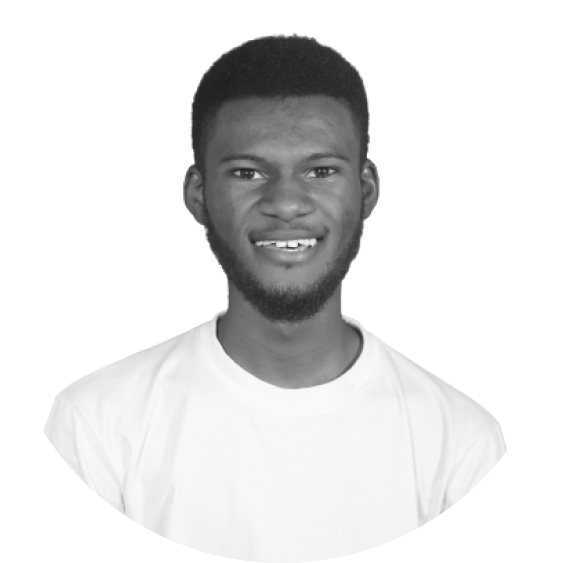
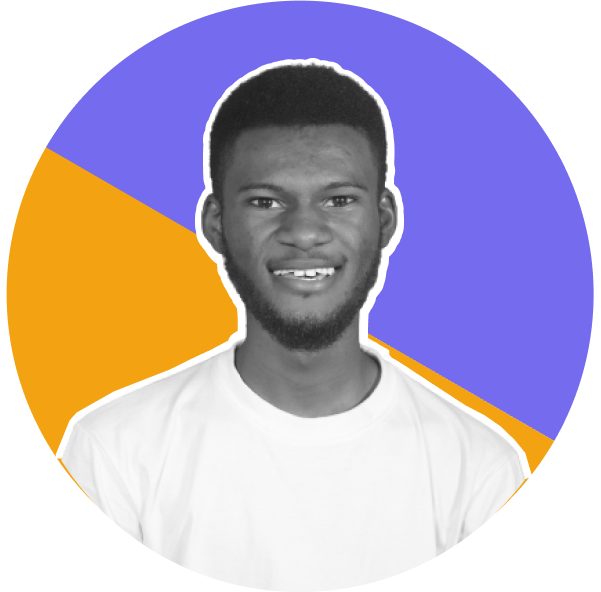
update profile picture

diff --git a/src/components/sections/Hero.js b/src/components/sections/Hero.js
@@ -1,9 +1,11 @@
 import React from 'react';
-import { Grid } from '@mui/material';
-
+import { Button, Grid } from '@mui/material';
 import classNames from 'classnames';
 import { SectionProps } from '../../utils/SectionProps';
 import Image from '../elements/Image';
+import { styled } from '@mui/material/styles';
+// import PlayCircleIcon from '@mui/icons-material/PlayCircle';
+import { Link } from 'react-router-dom';
 
 const propTypes = {
   ...SectionProps.types
@@ -39,32 +41,78 @@ const Hero = ({
     bottomDivider && 'has-bottom-divider'
   );
 
+  const HeroButton = styled(Button)({
+    textTransform: 'capitalize',
+    width: '100%',
+    fontSize: '16px',
+    textAlign: 'center',
+    borderRadius: '5px',
+  })
+
   return (
     <section
       {...props}
       className={outerClasses}
+      style={{backgroundColor: '#FFF9E7'}}
     >
       <div className="container-sm">
         <div className={innerClasses}>
           <Grid container spacing={5}>
             <Grid item xs={12} sm={6} md={6} style={{display: "flex", flexDirection: "column", justifyContent: "center"}} className="btns">
-              <p className="m-0 reveal-from-bottom primary-color" data-reveal-delay="400"><b>OONFTs</b></p>
               <h1 className="mt-0 mb-16 reveal-from-bottom" data-reveal-delay="200">
-              Create, sell or collect digital items.
+                Hi, i’m Ameh Abraham. I build and design software.
               </h1>
               <p className="m-0 mb-32 reveal-from-bottom" data-reveal-delay="400">
-              Unit of data stored on a digital ledger, called a blockchain, that certifies a digital asset to be unique and therefore not interchangeable.
+                I’m a software engineer specializing in building (and occasionally designing) exceptional digital experiences. Currently, I’m focused on building accessible, human-centered products.
               </p>
               <div className="reveal-from-bottom" data-reveal-delay="600">
-                {/* <ConnectButton /> */}
+              <Grid container spacing={3}>
+                  <Grid item xs={12} sm={6} md={4}>
+                    <Link to='/about'>
+                      <HeroButton 
+                        variant="contained"
+                      >
+                        Hire Me
+                      </HeroButton>
+                    </Link>
+                  </Grid>
+                  <Grid item xs={12} sm={6} md={4}>
+                    <HeroButton variant="outlined" 
+                      // endIcon={<PlayCircleIcon/>}
+                    >
+                      Let's talk
+                      
+                    </HeroButton>
+                  </Grid>
+                </Grid> 
               </div>
             </Grid>
             <Grid item xs={12} sm={6} md={6}>
 
-              <div className="hero-figure reveal-from-bottom illustration-element-01" data-reveal-value="20px" data-reveal-delay="800">
+              <div className="hero-figure reveal-from-bottom illustration-element-01" data-reveal-value="20px" data-reveal-delay="800" style={{position: 'relative'}}>
                 <Image
-                  src={require('./../../assets/images/nft.png')}
-                  alt="Hero" 
+                  src={require('./../../assets/images/hero/abraham.png')}
+                  alt="Abraham" 
+                  />
+                  <Image
+                    src={require('./../../assets/images/hero/figma.svg')}
+                    alt='figma'
+                    className='figma'
+                  />
+                  <Image
+                    src={require('./../../assets/images/hero/javascript.svg')}
+                    alt='javascript'
+                    className='javascript'
+                  />
+                  <Image
+                    src={require('./../../assets/images/hero/typescript.svg')}
+                    alt='typescript'
+                    className='typescript'
+                  />
+                  <Image
+                    src={require('./../../assets/images/hero/react.svg')}
+                    alt='react'
+                    className='react'
                   />
             </div>
             </Grid>

diff --git a/src/components/layout/Header.js b/src/components/layout/Header.js
@@ -2,7 +2,7 @@ import React, { useState, useRef, useEffect } from 'react';
 import PropTypes from 'prop-types';
 import classNames from 'classnames';
 import { Link } from 'react-router-dom';
-import Logo from '../../assets/images/logo.png';
+import Logo from '../../assets/images/logo.svg';
 import Button from '../elements/Button';
 
 const propTypes = {
@@ -79,7 +79,7 @@ const Header = ({
     <header
       {...props}
       className={classes}
-      style={{position: "fixed"}}
+      style={{position: "fixed", paddingTop: '1%', backgroundColor: '#FFF9E7'}}
     >
       <div className="container">
         <div className={
@@ -88,7 +88,7 @@ const Header = ({
             bottomDivider && 'has-bottom-divider'
           )}>
           {/* <Logo /> */}
-          <Link to="/"><img src={ Logo } width="60" alt="" className="float-righ"/></Link>
+          <Link to="/"><img src={ Logo } width="195" alt="logo" className="float-righ" style={{marginTop: '2%'}}/></Link>
           {/* <h3>Numeri</h3> */}
           {!hideNav &&
             <>
@@ -116,15 +116,32 @@ const Header = ({
                       navPosition && `header-nav-${navPosition}`
                     )}>
                       <li>
-                      <Link to="/collections" onClick={closeMenu}>My Collections</Link>
-                    </li>
+                        <Link to="/collections" onClick={closeMenu}>About Me</Link>
+                      </li>
+                      <li>
+                        <Link to="/collections" onClick={closeMenu}>Services</Link>
+                      </li>
+                      <li>
+                        <Link to="/collections" onClick={closeMenu}>Projects</Link>
+                      </li>
+                      <li>
+                        <Link to="/collections" onClick={closeMenu}>Contact</Link>
+                      </li>
                   </ul>
                   {!hideSignin &&
                     <ul
                       className="list-reset header-nav-right"
                     >
                       <li>
-                        <Button color={'#8364e2'}>Connect</Button>
+                      <Button 
+                            variant="contained"
+                            sx={{
+                              fontSize: '16px',
+                              textTransform: 'capitalize'
+                            }}
+                          >
+                            Resume
+                          </Button>
                       </li>
                     </ul>}
                 </div>

diff --git a/src/components/layout/Footer.js b/src/components/layout/Footer.js
@@ -1,9 +1,10 @@
 import React from 'react';
 import PropTypes from 'prop-types';
 import classNames from 'classnames';
-import Logo from '../../assets/images/logo.png';
-import FooterNav from './partials/FooterNav';
+import Logo from '../../assets/images/logo.svg';
 import FooterSocial from './partials/FooterSocial';
+import { Box, Grid } from '@mui/material';
+import { Link } from 'react-router-dom';
 
 const propTypes = {
   topOuterDivider: PropTypes.bool,
@@ -39,15 +40,25 @@ const Footer = ({
             'site-footer-inner',
             topDivider && 'has-top-divider'
           )}>
-          <div className="footer-top space-between text-xxs">
-            <img src={ Logo } width="60" alt="" className="float-righ"/>
-            <FooterSocial />
-          </div>
-          <div className="footer-bottom space-between text-xxs invert-order-desktop">
-            <FooterNav />
-            <div className="footer-copyright" style={{color: "#9CA9B3"}}>&copy; 2022 OONFTs. All right reserved</div>
-          </div>
+            <div className="footer-top" style={{marginTop: '100px'}}>
+            <Box>
+              <Grid container spacing={5} >
+                <Grid item xs={12} sm={6} md={6}>
+                  <Link to='/'>
+                    <img src={ Logo } width="250" alt="" className="float-righ" style={{marginBottom: '18px'}}/>
+                  </Link>
+                  <p>Fast-forward to today, and I’ve had the privilege of working at an advertising. a start-up, a huge corporation,</p>
+                </Grid>
+                <Grid item xs={12} sm={6} md={6}>
+                  <h2>Let’s <span>Connect.</span> 💬</h2>
+                  <FooterSocial />
+                </Grid>
+              </Grid>
+            </Box>
+            </div>
         </div>
+        <br/>
+          <div className="footer-copyright" style={{textAlign: 'center', textTransform: 'uppercase', paddingBottom: '5%'}}>Designed and built by Ameh Abraham</div>
       </div>
     </footer>
   );

diff --git a/public/index.html b/public/index.html
@@ -2,14 +2,14 @@
 <html lang="en">
   <head>
     <meta charset="utf-8" />
-    <link rel="icon" href="%PUBLIC_URL%/logo.png" />
+    <link rel="icon" href="%PUBLIC_URL%/logo.svg" />
     <meta name="viewport" content="width=device-width, initial-scale=1" />
     <meta name="theme-color" content="#000000" />
     <meta
       name="description"
-      content="NFT task"
+      content="Ameh Abraham Portfolio website"
     />
-    <link rel="apple-touch-icon" href="%PUBLIC_URL%/logo.png" />
+    <link rel="apple-touch-icon" href="%PUBLIC_URL%/logo.svg" />
     <!--
       manifest.json provides metadata used when your web app is installed on a
       user's mobile device or desktop. See https://developers.google.com/web/fundamentals/web-app-manifest/
@@ -24,7 +24,7 @@
       work correctly both with client-side routing and a non-root public URL.
       Learn how to configure a non-root public URL by running `npm run build`.
     -->
-    <title>Home | OONFTs</title>
+    <title>Ameh Abraham | Software dev</title>
   </head>
   <body>
     <noscript>You need to enable JavaScript to run this app.</noscript>

diff --git a/src/App.css b/src/App.css
@@ -2127,7 +2127,7 @@ textarea.form-input {
   display: none;
 }
 
-@media (max-width: 640px) {
+@media (max-width: 1000px) {
   .header-nav-toggle {
     display: block;
   }
@@ -2221,6 +2221,35 @@ textarea.form-input {
           flex: 1 0 auto;
 }
 
+
+.illustration-element-01::after {
+  background-image: url('/src/assets/images/hero/hero-circle-2.svg') !important;
+}
+
+.figma {
+  position: absolute;
+  top: 13%;
+  left: 23%;
+}
+
+.typescript {
+  position: absolute;
+  top: 45%;
+  left: 10%;
+}
+
+.react {
+  position: absolute;
+  top: 20%;
+  right: 12%;
+}
+
+.javascript {
+  position: absolute;
+  top: 53%;
+  right: 16%;
+}
+
 /*--------------------------------------------------------------
 # Footer
 --------------------------------------------------------------*/
@@ -2235,7 +2264,7 @@ textarea.form-input {
   left: 0;
   width: 100%;
   height: 100%;
-  background: #151719;
+  background: #FBDE4D;
   z-index: -3;
 }
 

diff --git a/src/views/Home.js b/src/views/Home.js
@@ -1,5 +1,4 @@
 import React from 'react';
-import { Divider } from '@mui/material';
 // import sections
 import Hero from '../components/sections/Hero';
 
@@ -9,8 +8,7 @@ const Home = () => {
 
   return (
     <LayoutDefault>
-      <Hero className="illustration-section-01" />
-      <Divider variant="middle"/>
+      <Hero />
     </LayoutDefault>
   );
 }
